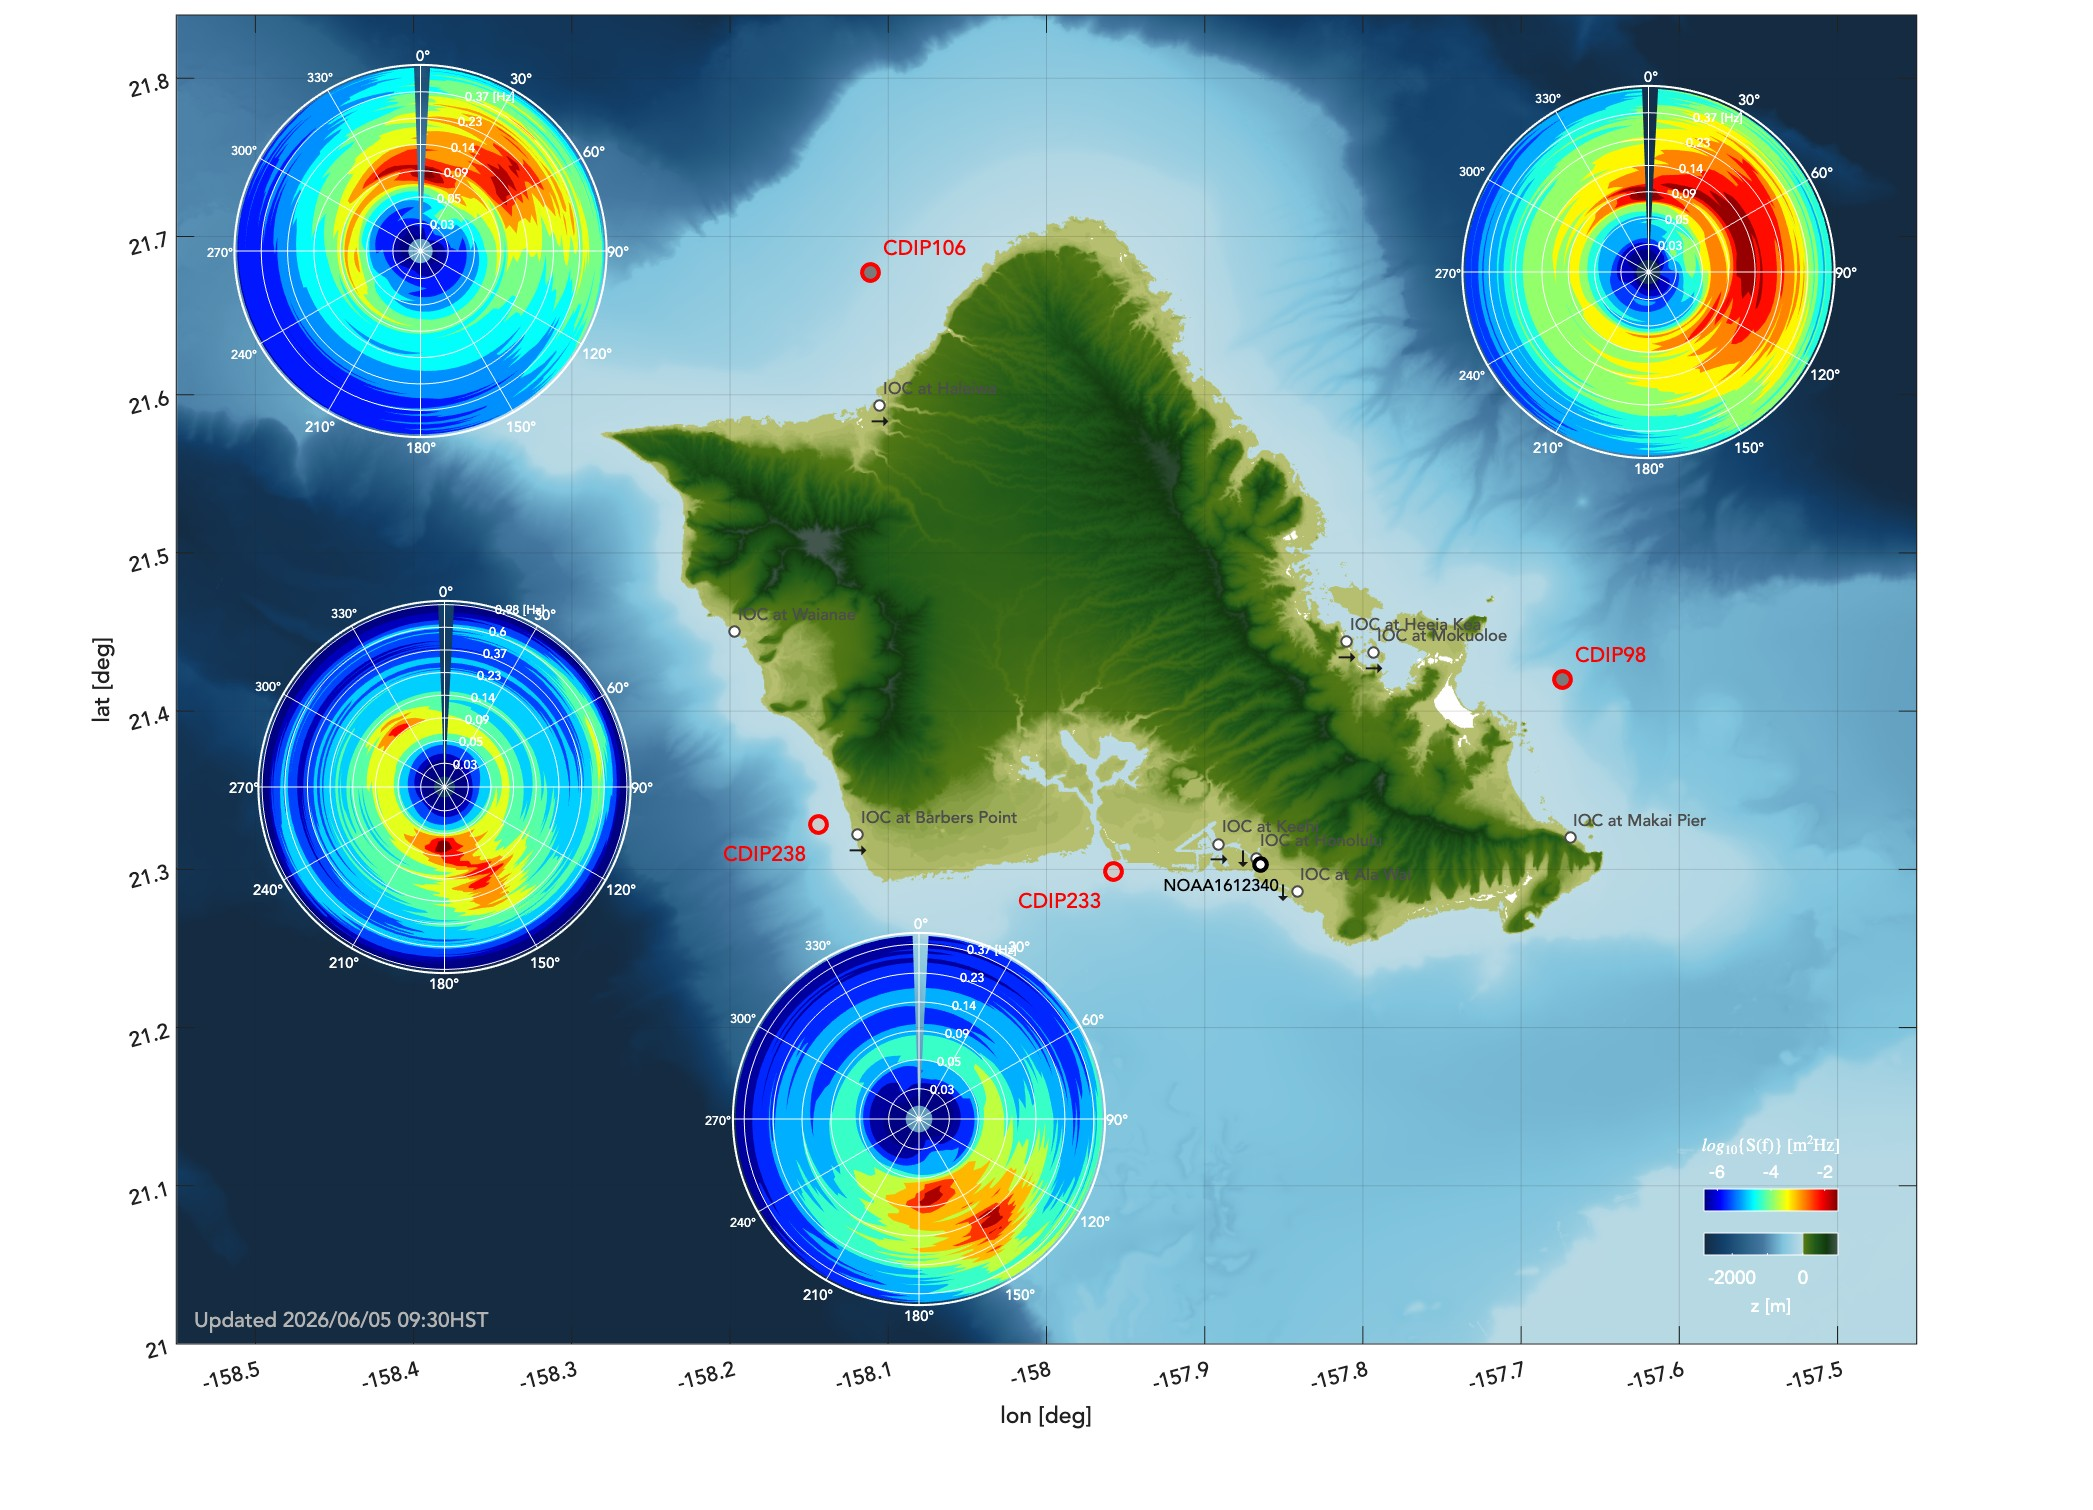
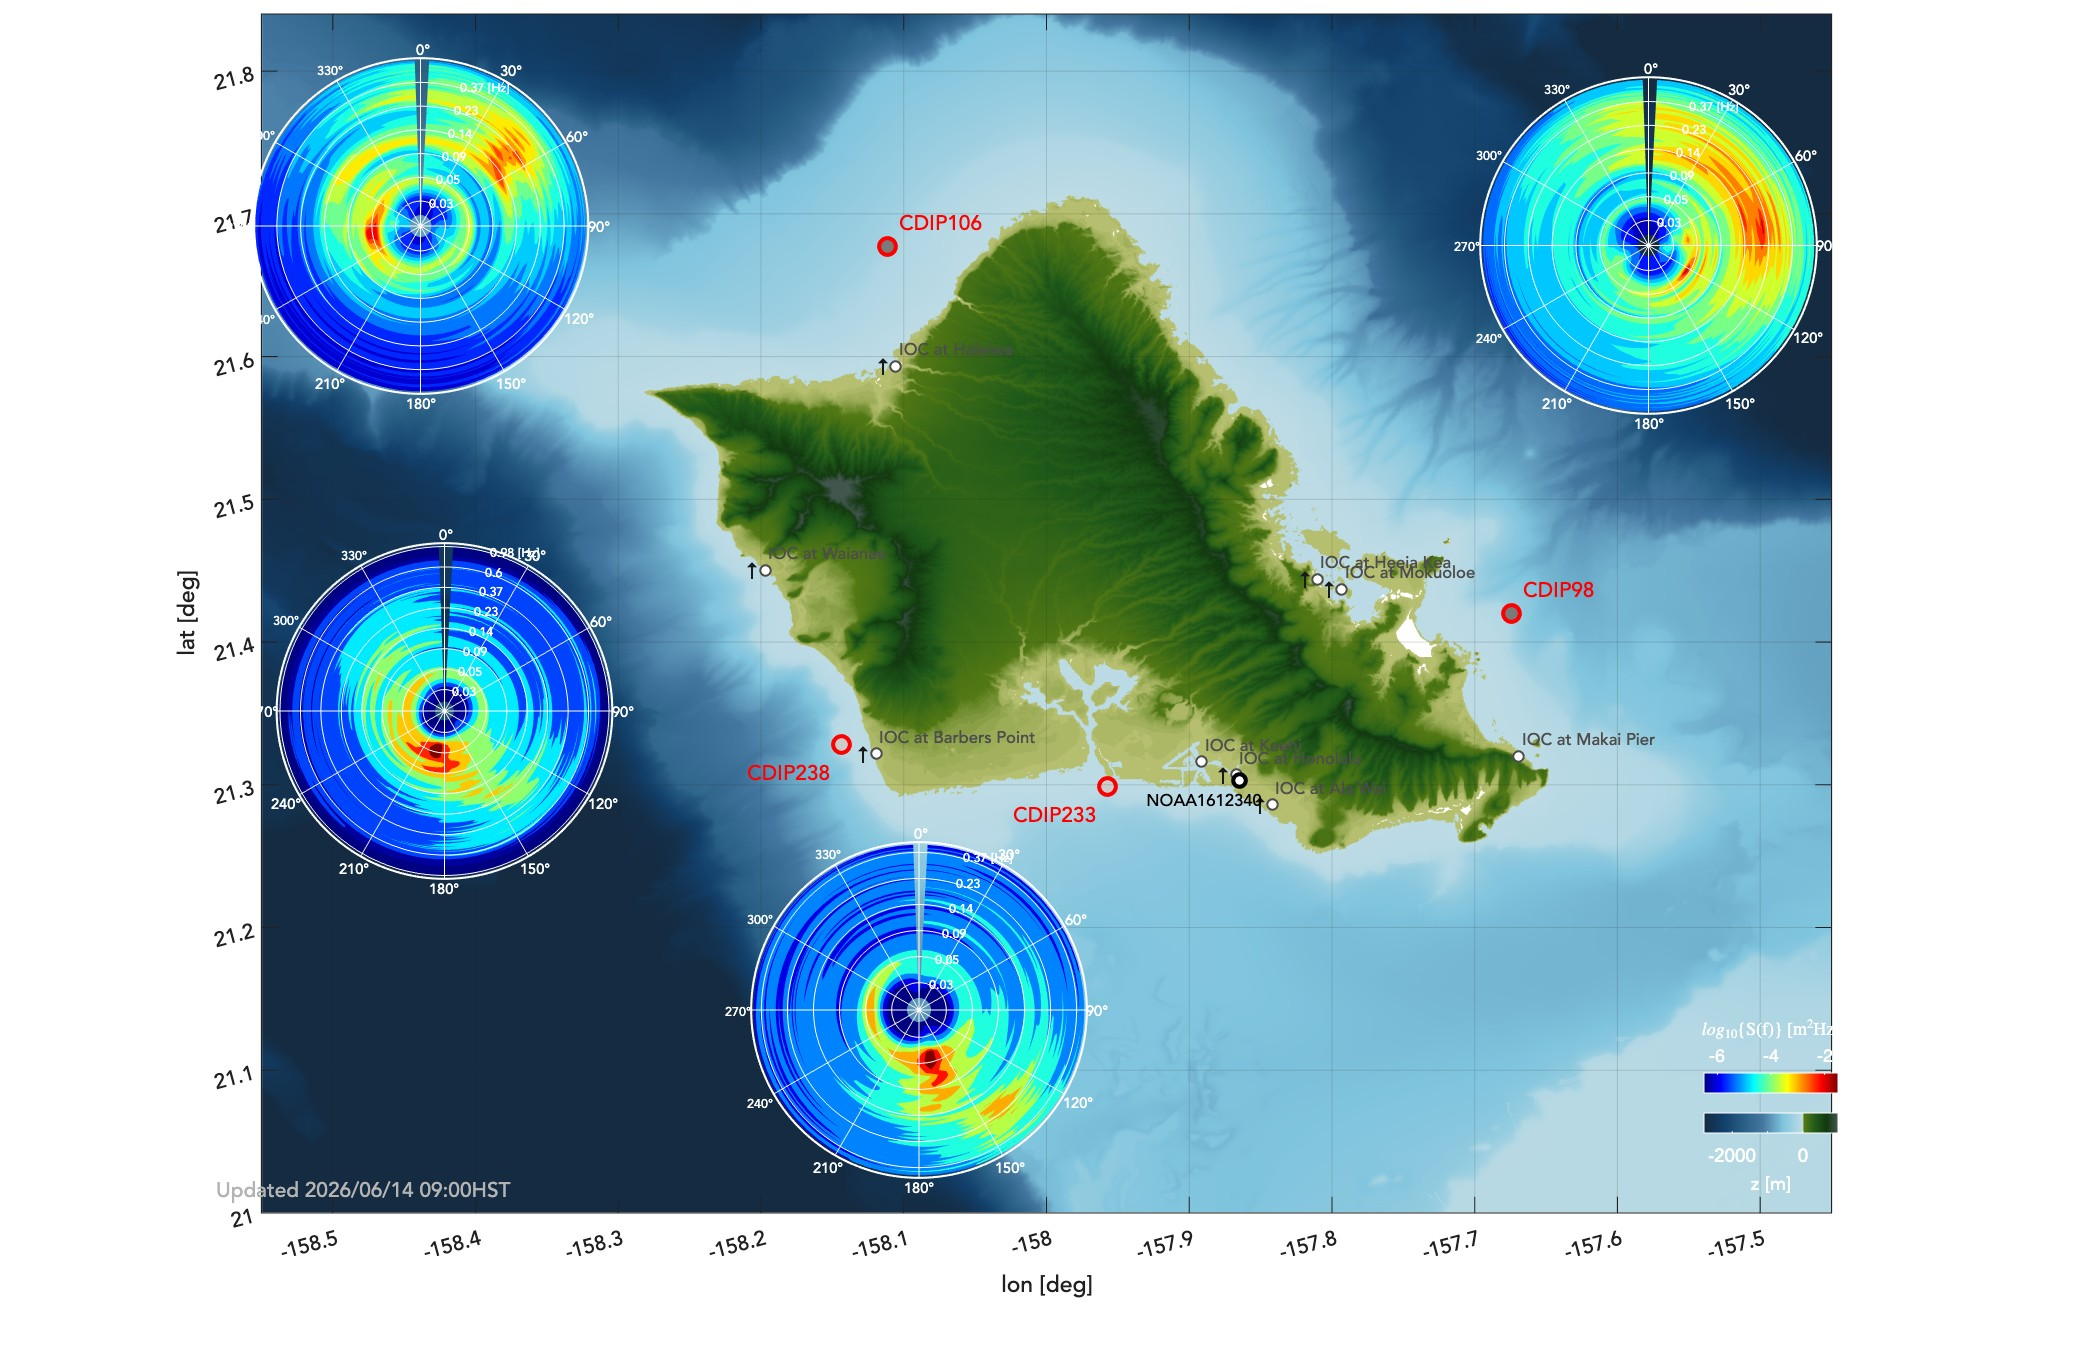
new for oahu

diff --git a/howsthewater_oahu.m b/howsthewater_oahu.m
@@ -4,6 +4,7 @@ tmzone = 7/24;
 tmzone = timezone(-157.858093)./24;
 
 %% fpath
+
 % https://www.pacioos.hawaii.edu/voyager/info/bathymetry.html
 [upath regpath wpath trpath] = checksystem()
 addpath([upath trpath ])
@@ -81,7 +82,7 @@ end
 % [hfr.U hfr.V hfr.lat hfr.lon hfr.T] = dload_hfr(cdip.lat0,cdip.lon0-0.02,daterange);
 
 
-%% [save] PLOT
+%% [save] PLOT time series 
 xlims = [now-5 now+6/24];
 dsmhr = 0.5/25;
 
@@ -450,6 +451,7 @@ ttlstr = ['Updated ' datestr(max([cdip_windward.time cdip_south.time])-tmzone, '
 
 % - - - - - - - - - - - - - - - - - - - - - - - - - - - - - - - - - - - -
 fsplit = 0.1;
+
 % - - - - - - - - - - - - - - - - - - - - - - - - - - - - - - - - - - - -
 thisha = ha(1); axes(thisha); hold on; 
 title(gca, ttlstr, 'HorizontalAlignment', 'right')
@@ -518,7 +520,7 @@ yticks(1./ytx);
 set(gca, 'YTickLabel', ylb)
 
 yyaxis left; set(gca, 'YColor', 'k')
-cdip = cdip_windward;
+cdip = cdip_windward; 
 x = cdip.time - tmzone; y = cdip.f; Z = cdip.sf; Z = log10(Z); dt = mode(diff(cdip.time));
 pcolor(x,y,Z); shading flat;
 [X Y] = ndgrid(x,y); Z = movmean(Z,(2./24)./dt,2); Z = movmean(Z,3,1); 